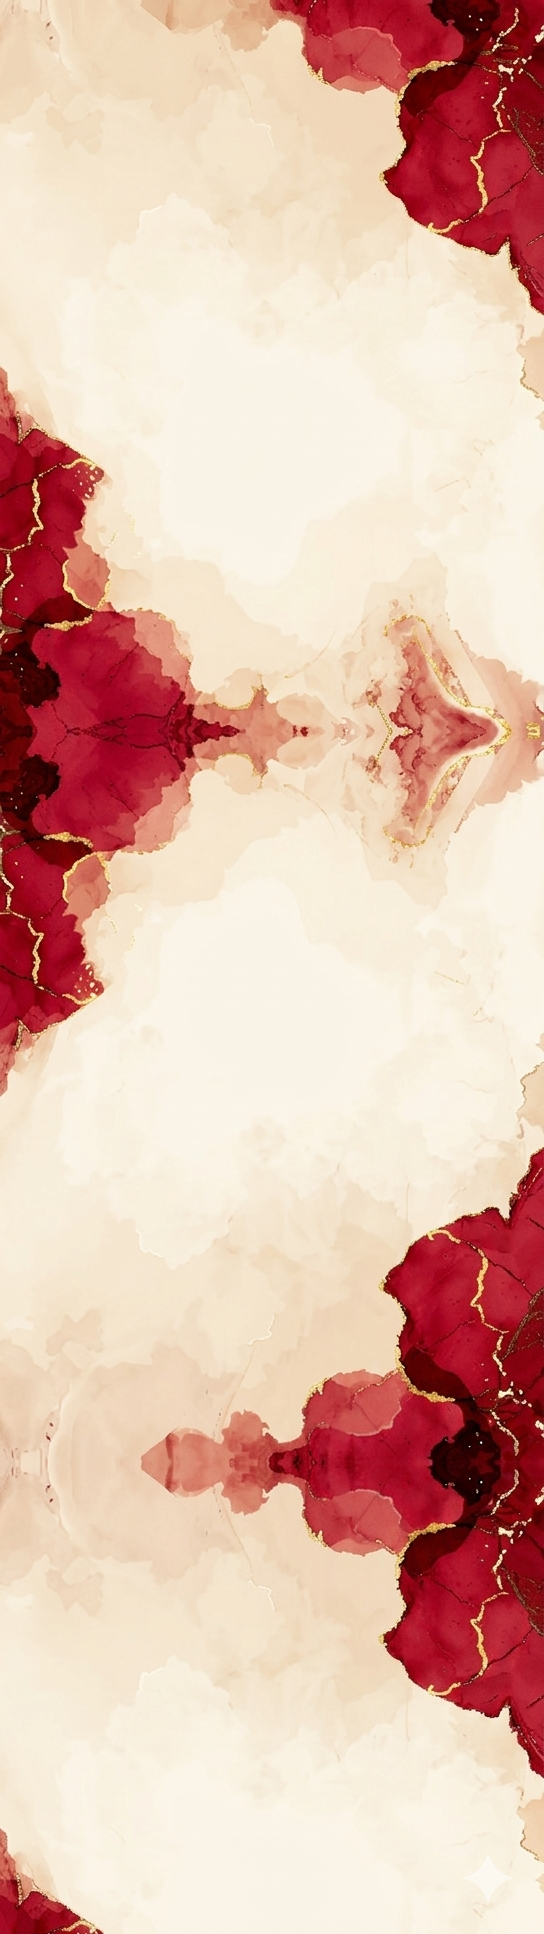
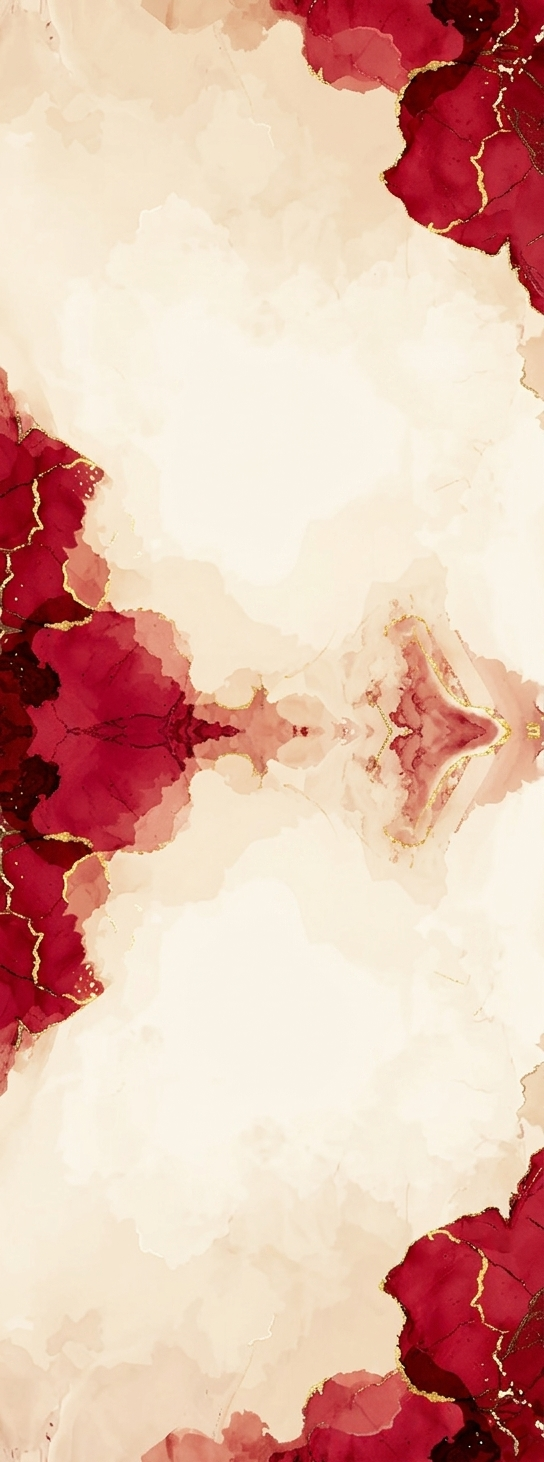
Cuarto Commit
Borrar seccion de confirmacion
Arreglar fondo estatico a un o con scroll infinito

diff --git a/index.html b/index.html
@@ -39,10 +39,10 @@
         /* Nuevo contenedor para la imagen de fondo */
         .background-container {
             background-image: url('fondo.png');
-            background-size: cover;
-            background-position: center;
-            background-attachment: fixed;
+            background-size: 100% auto; /* Ajusta al ancho y permite repetir */
+            background-position: top center; /* Empieza desde arriba */
             padding: 20px; /* Este es el espacio que crea el efecto de marco */
+            background-repeat: repeat-y; /* Repite verticalmente para un scroll "infinito" */
         }
 
         /* Contenedor principal (estilo móvil) */
@@ -628,30 +628,9 @@
             <a href="#" target="_blank" class="button">Ver Fotos</a>
         </section>
 
-        <!-- MARK: CONFIRMACIÓN DE ASISTENCIA -->
-        <section class="animate-on-scroll">
-            <h2>Confirmar Asistencia</h2>
-            <form onsubmit="return confirmarAsistencia(event)">
-                <label for="familia" class="texto">Nombre y Apellido:</label><br>
-                <input type="text" id="familia" maxlength="30" required>
-                
-                <div style="margin: 20px 0; text-align: left; display: inline-block;">
-                    <label class="texto" style="display: block; margin-bottom: 10px;">Confirmo que:</label>
-                    <input type="radio" id="asistire" name="confirmacion" value="asistire" checked>
-                    <label for="asistire">Asistiré</label><br><br>
-                    
-                    <input type="radio" id="noAsistire" name="confirmacion" value="noAsistire">
-                    <label for="noAsistire">No Asistiré</label>
-                </div>
-                
-                <br>
-                <button type="submit" class="button">Confirmar por WhatsApp</button>
-            </form>
-        </section>
-
         <!-- MARK: FOOTER -->
         <section style="border: none; padding-bottom: 20px;" class="animate-on-scroll">
-            <p class="texto" style="font-size: 1rem; color: #aaa;">Invitación creada por Ruxely Torres</p>
+            <p class="texto" style="font-size: 1rem; color: #aaa;">Invitación creada por Vienna Fotografia y Video</p>
         </section>
     </div>
     </div> <!-- Cierre de background-container -->
@@ -701,28 +680,6 @@
             if(!mensaje) return alert("Por favor escribe un mensaje primero.");
             var url = "https://api.whatsapp.com/send?phone=" + lada + numero + "&text=" + encodeURIComponent(mensaje);
             window.open(url, '_blank');
-        }
-
-        // 3. Lógica de Confirmación de Asistencia
-        // REEMPLAZA '[phone redacted]' CON TU NÚMERO REAL DE WHATSAPP
-        const numeroConfirmacion = "1234567890"; 
-        
-        function confirmarAsistencia(event) {
-            event.preventDefault();
-            var nombre = document.getElementById("familia").value;
-            var asistire = document.getElementById("asistire").checked;
-            
-            var mensajeCA = asistire 
-                ? `Hola, soy ${nombre} y confirmo mi asistencia a los XV años de Ruxely.` 
-                : `Hola, soy ${nombre} y lamentablemente, no podré asistir a los XV años de Ruxely.`;
-
-            var confirmacion = confirm(asistire ? "¿Estás seguro de confirmar tu asistencia?" : "¿Estás seguro de que no podrás asistir?");
-            
-            if (confirmacion) {
-                var urlCA = "https://api.whatsapp.com/send?phone=52" + numeroConfirmacion + "&text=" + encodeURIComponent(mensajeCA);
-                window.open(urlCA, '_blank').focus();
-            }
-            return false;
         }
 
         // 4. Lógica de Reproductor de Audio
@@ -788,7 +745,22 @@
                 // Observar todos los elementos que deben animarse
                 const elementsToAnimate = document.querySelectorAll('.animate-on-scroll');
                 elementsToAnimate.forEach(el => observer.observe(el));
-            }, 1800);
+            }, 1800); // Sincronizado con la duración de la animación de las cubiertas
+        });
+
+        // 5. Lógica para pausar la música si la pestaña no está visible
+        document.addEventListener('visibilitychange', function() {
+            if (document.hidden) {
+                // Si la música estaba sonando, la pausamos temporalmente
+                if (estaReproduciendo) {
+                    reproductor.pause();
+                }
+            } else {
+                // Si la música debería estar sonando, la reanudamos
+                if (estaReproduciendo) {
+                    reproductor.play();
+                }
+            }
         });
     </script>
 </body>